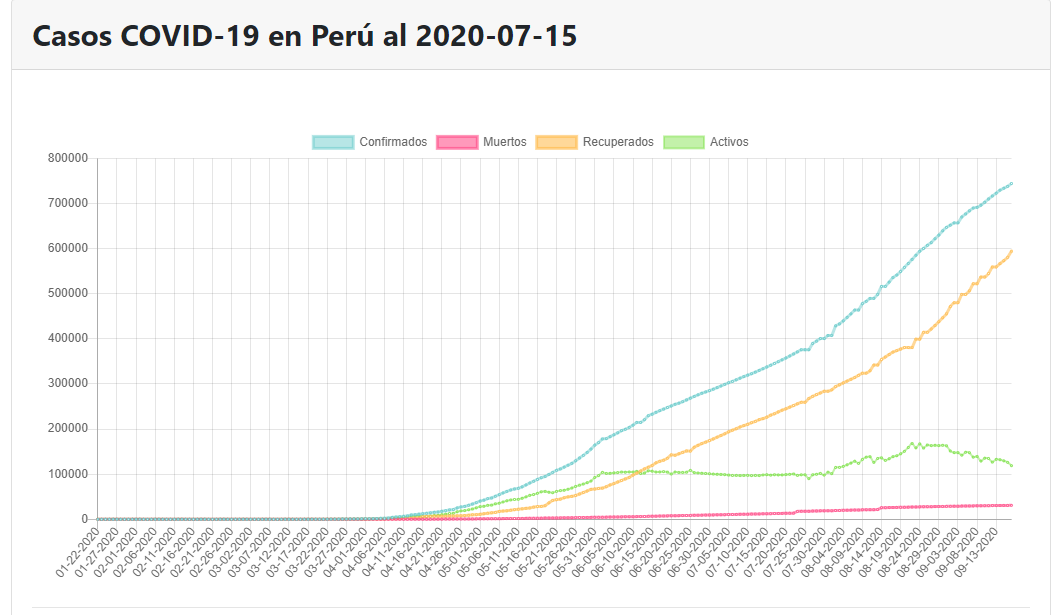
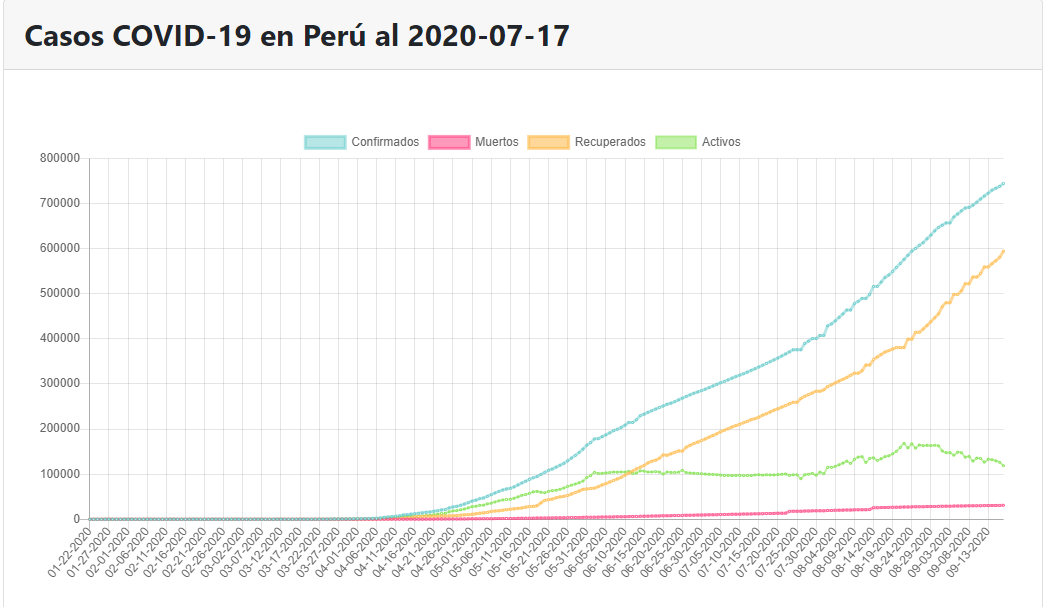
add img chart and table ... :)

diff --git a/index.php b/index.php
@@ -17,7 +17,7 @@
 <body>
     <div class="card" >
         <div class="card-header">
-        Casos COVID-19 en Perú al 2020-07-15
+        Casos COVID-19 en Perú al 2020-07-17
         </div>
         <ul class="list-group list-group-flush">
             <li class="list-group-item"> <?php include './view/datatable.php'; ?></li>
